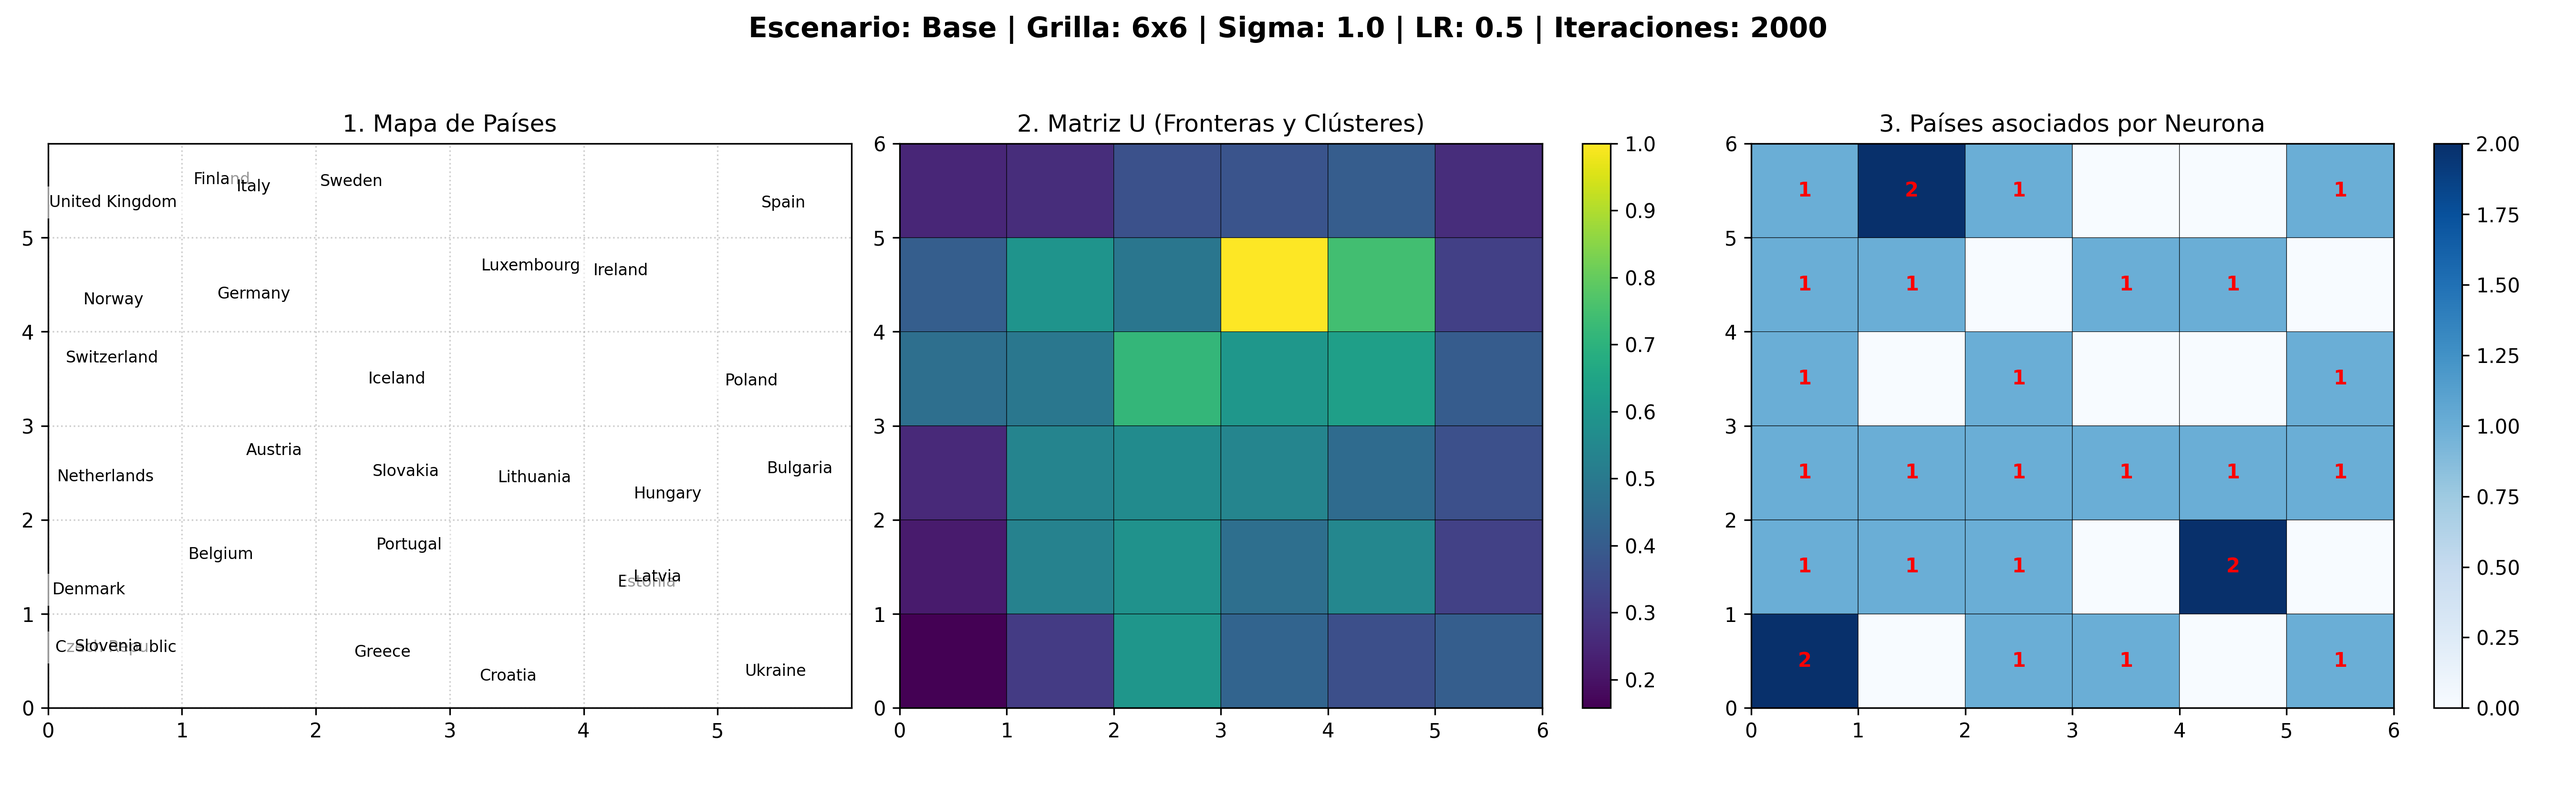
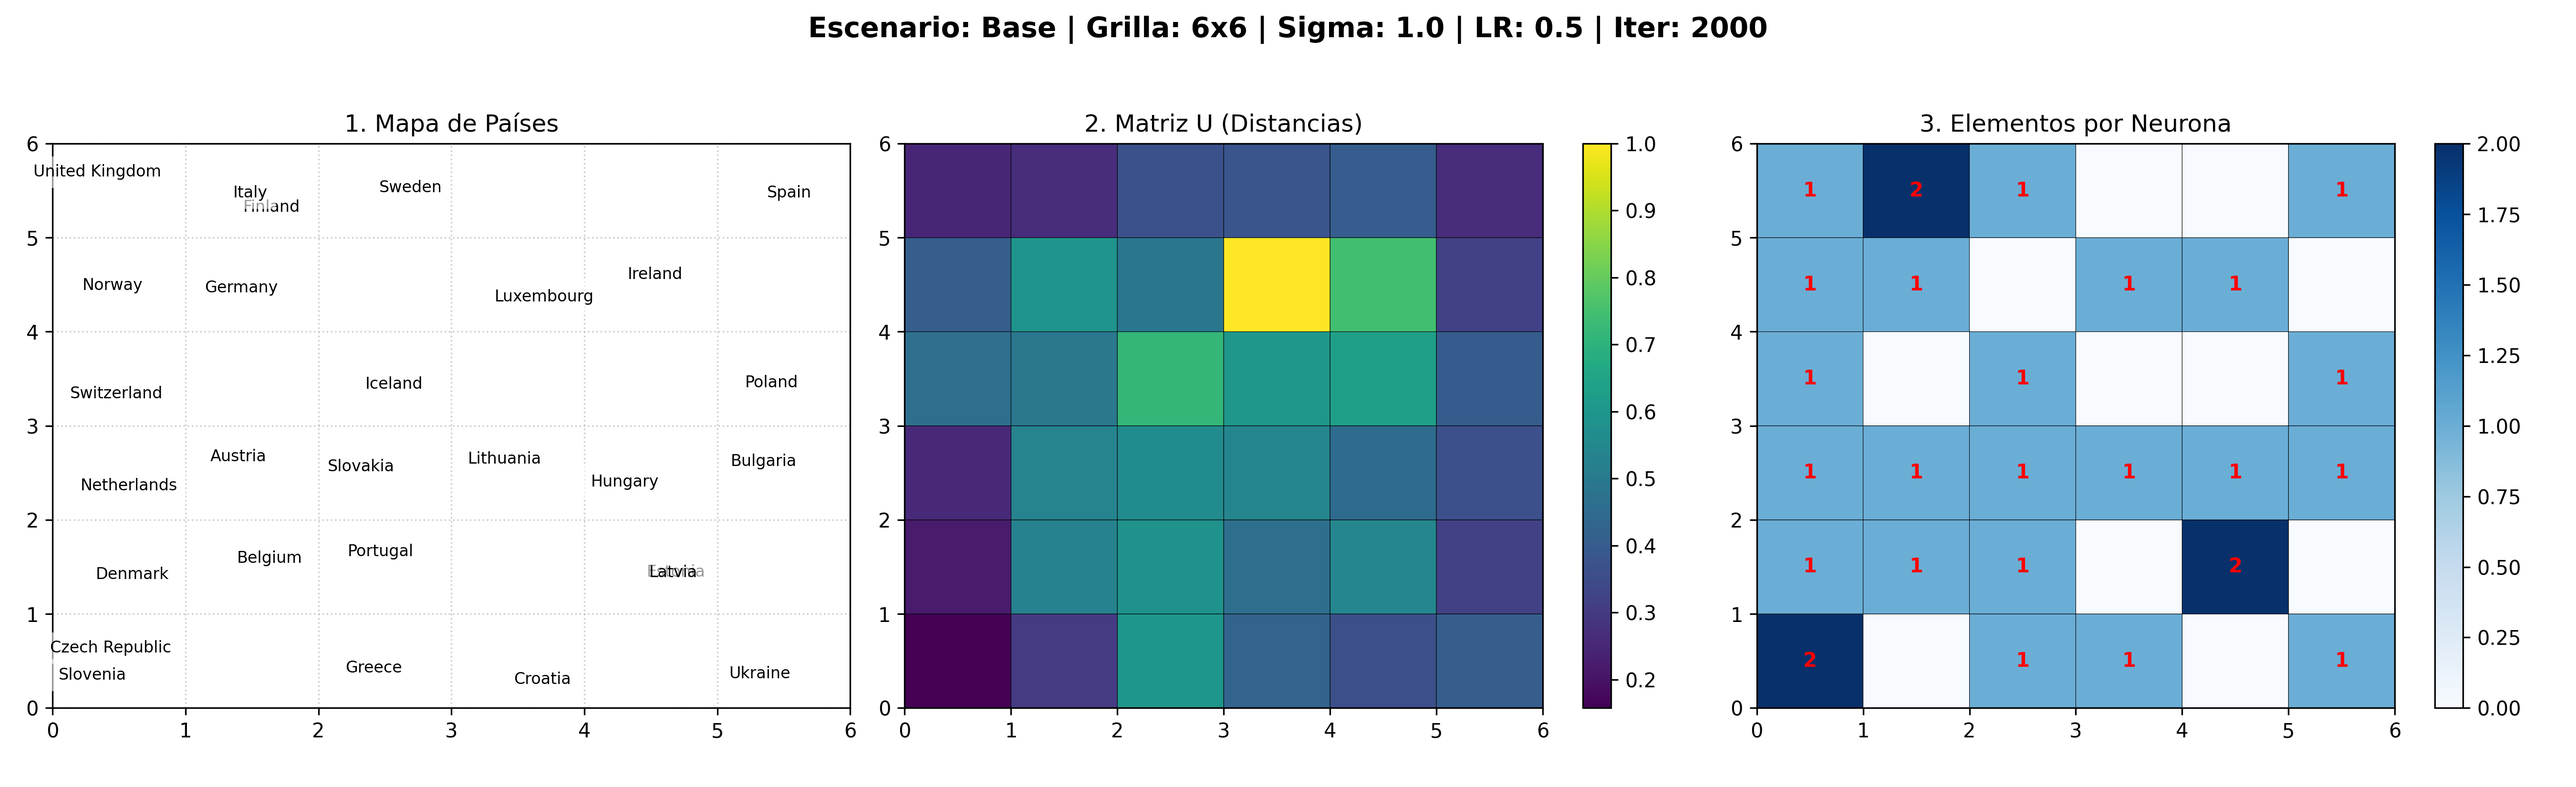
Optimizarion

diff --git a/kohonen/kohonen.py b/kohonen/kohonen.py
@@ -3,13 +3,12 @@ import numpy as np
 import matplotlib.pyplot as plt
 from minisom import MiniSom
 from sklearn.preprocessing import StandardScaler
-import os
 
 # ==========================================
 # 1. Carga y Preparación de Datos
 # ==========================================
 try:
-    df = pd.read_csv('../data/europe.csv')
+    df = pd.read_csv('../data/europe.csv') # Ajusta la ruta si es necesario
 except FileNotFoundError:
     print("Error: Por favor asegura que 'europe.csv' esté en la ruta correcta.")
     exit()
@@ -22,9 +21,8 @@ data_scaled = scaler.fit_transform(data)
 num_paises = len(data_scaled)
 
 # ==========================================
-# 2. Definición de Hiperparámetros (Escenarios)
+# 2. Definición de Escenarios de Hiperparámetros
 # ==========================================
-# Aquí definimos explícitamente los valores para cada corrida comparativa
 escenarios = [
     {"nombre": "Base",            "rows": 6, "cols": 6, "sigma": 1.0, "lr": 0.5, "iter": 2000},
     {"nombre": "Grilla_Chica",    "rows": 4, "cols": 4, "sigma": 1.0, "lr": 0.5, "iter": 2000},
@@ -35,32 +33,28 @@ escenarios = [
 ]
 
 resultados = []
-modelos_entrenados = {} # Para guardar la información y regenerar el óptimo al final
+modelos_entrenados = {}
 
 print("Iniciando entrenamiento y generación de gráficos comparativos...\n")
 
 # ==========================================
-# 3. Entrenamiento y Generación de Gráficos por Escenario
+# 3. Bucle de Entrenamiento y Guardado de Imágenes
 # ==========================================
 for esc in escenarios:
     r, c = esc["rows"], esc["cols"]
     total_neuronas = r * c
-    epocas = round(esc["iter"] / num_paises, 1)
     
-    # Inicializar y entrenar
     som = MiniSom(x=r, y=c, input_len=data_scaled.shape[1], 
                   sigma=esc["sigma"], learning_rate=esc["lr"], random_seed=42)
     som.random_weights_init(data_scaled)
     som.train_random(data_scaled, num_iteration=esc["iter"])
     
-    # Calcular métricas
     hit_map = som.activation_response(data_scaled)
     neuronas_activas = np.count_nonzero(hit_map)
     neuronas_muertas = total_neuronas - neuronas_activas
     qe = som.quantization_error(data_scaled)
     te = som.topographic_error(data_scaled)
     
-    # Guardar métricas en la tabla de resultados
     resultados.append({
         "Escenario": esc["nombre"],
         "Dimensiones": f"{r}x{c}",
@@ -72,34 +66,29 @@ for esc in escenarios:
         "Error Topológico (TE)": round(te, 4)
     })
     
-    # Guardar modelo en memoria
-    modelos_entrenados[esc["nombre"]] = (som, r, c)
+    modelos_entrenados[esc["nombre"]] = (som, r, c, hit_map)
 
-    # --- GRAFICAR Y GUARDAR ESTE ESCENARIO PARA LA PPT ---
+    # Gráfico para la PPT
     fig = plt.figure(figsize=(18, 5.5))
-    fig.suptitle(f"Escenario: {esc['nombre']} | Grilla: {r}x{c} | Sigma: {esc['sigma']} | LR: {esc['lr']} | Iteraciones: {esc['iter']}", fontsize=14, fontweight='bold')
+    fig.suptitle(f"Escenario: {esc['nombre']} | Grilla: {r}x{c} | Sigma: {esc['sigma']} | LR: {esc['lr']} | Iter: {esc['iter']}", fontsize=14, fontweight='bold')
 
-    # 1. Mapa de Países
     ax1 = fig.add_subplot(1, 3, 1)
     ax1.set_title("1. Mapa de Países")
     ax1.pcolor(np.zeros((r, c)), cmap='Greys', edgecolors='k', alpha=0) 
     for i, x in enumerate(data_scaled):
         w = som.winner(x)
-        ax1.text(w[0] + 0.5 + np.random.uniform(-0.25, 0.25), w[1] + 0.5 + np.random.uniform(-0.25, 0.25), 
+        ax1.text(w[0] + 0.5 + np.random.uniform(-0.2, 0.2), w[1] + 0.5 + np.random.uniform(-0.2, 0.2), 
                  countries[i], ha='center', va='center', fontsize=8, bbox=dict(facecolor='white', alpha=0.6, lw=0))
     ax1.set_xlim([0, r]); ax1.set_ylim([0, c])
-    ax1.set_xticks(np.arange(r)); ax1.set_yticks(np.arange(c))
     ax1.grid(True, linestyle=':', alpha=0.6)
 
-    # 2. Matriz U
     ax2 = fig.add_subplot(1, 3, 2)
-    ax2.set_title("2. Matriz U (Fronteras y Clústeres)")
+    ax2.set_title("2. Matriz U (Distancias)")
     cax = ax2.pcolor(som.distance_map().T, cmap='viridis', edgecolors='k') 
     fig.colorbar(cax, ax=ax2)
 
-    # 3. Aciertos por Neurona
     ax3 = fig.add_subplot(1, 3, 3)
-    ax3.set_title("3. Países asociados por Neurona")
+    ax3.set_title("3. Elementos por Neurona")
     cax3 = ax3.pcolor(hit_map.T, cmap='Blues', edgecolors='k')
     fig.colorbar(cax3, ax=ax3)
     for i in range(r):
@@ -107,16 +96,13 @@ for esc in escenarios:
             if hit_map[i, j] > 0:
                 ax3.text(i + 0.5, j + 0.5, str(int(hit_map[i, j])), ha='center', va='center', color='red', fontweight='bold')
 
-    plt.tight_layout(rect=[0, 0.03, 1, 0.95]) # Ajustar layout para el suptitle
-    
-    # Guardar imagen para la comparativa
-    nombre_archivo = f"Comparativa_{esc['nombre']}.png"
-    plt.savefig(nombre_archivo, dpi=300)
-    plt.close(fig) # Cerrar la figura para no saturar la memoria
-    print(f" -> Guardado gráfico comparativo: {nombre_archivo}")
+    plt.tight_layout(rect=[0, 0.03, 1, 0.95])
+    plt.savefig(f"Comparativa_{esc['nombre']}.png", dpi=300)
+    plt.close(fig)
+    print(f" -> Guardado: Comparativa_{esc['nombre']}.png")
 
 # ==========================================
-# 4. Cuadro Comparativo de Resultados
+# 4. Cuadro Comparativo en Consola
 # ==========================================
 df_comparativo = pd.DataFrame(resultados)
 print("\n" + "="*85)
@@ -124,41 +110,42 @@ print("                       CUADRO COMPARATIVO DE HIPERPARÁMETROS")
 print("="*85)
 print(df_comparativo.to_string(index=False))
 print("="*85 + "\n")
-df_comparativo.to_csv("cuadro_comparativo_kohonen.csv", index=False)
 
 # ==========================================
-# 5. Generar el Gráfico Final (El Óptimo)
+# 5. Selección e Impresión del Óptimo Matemático
 # ==========================================
-# Definimos el modelo óptimo como aquel que minimiza el Error de Cuantización (QE)
-# (Puedes cambiar esta métrica si prefieres basarte en el menor Error Topológico)
-mejor_escenario_nombre = df_comparativo.sort_values(by="Error Cuantización (QE)").iloc[0]["Escenario"]
-print(f"*** El modelo óptimo seleccionado automáticamente es: '{mejor_escenario_nombre}' ***")
+ganador_df = df_comparativo.sort_values(by="Neuronas Muertas").iloc[0]
+mejor_escenario_nombre = ganador_df["Escenario"]
 
-# Recuperamos el modelo óptimo y sus dimensiones
-som_opt, r_opt, c_opt = modelos_entrenados[mejor_escenario_nombre]
-hit_map_opt = som_opt.activation_response(data_scaled)
+print("="*50)
+print("         HIPERPARAMETROS OPTIMOS DETECTADOS")
+print("="*50)
+print(f" Escenario Ganador:      {mejor_escenario_nombre}")
+print(f" Tamaño de la Grilla:    {ganador_df['Dimensiones']}")
+print(f" Error de Cuantización:  {ganador_df['Error Cuantización (QE)']}")
+print(f" Error Topológico:       {ganador_df['Error Topológico (TE)']}")
+print(f" Neuronas Muertas:       {ganador_df['Neuronas Muertas']}")
+print("="*50 + "\n")
 
+# Re-generar el gráfico ganador con el nombre final solicitado
+som_opt, r_opt, c_opt, hit_map_opt = modelos_entrenados[mejor_escenario_nombre]
 fig_opt = plt.figure(figsize=(18, 5))
 
-# 1. Mapa de Países Óptimo
 ax1_opt = fig_opt.add_subplot(1, 3, 1)
-ax1_opt.set_title("1. Mapa de Países (Modelo Óptimo)")
+ax1_opt.set_title(f"1. Mapa de Países (Óptimo: {mejor_escenario_nombre})")
 ax1_opt.pcolor(np.zeros((r_opt, c_opt)), cmap='Greys', edgecolors='k', alpha=0) 
 for i, x in enumerate(data_scaled):
     w = som_opt.winner(x)
-    ax1_opt.text(w[0] + 0.5 + np.random.uniform(-0.25, 0.25), w[1] + 0.5 + np.random.uniform(-0.25, 0.25), 
+    ax1_opt.text(w[0] + 0.5 + np.random.uniform(-0.2, 0.2), w[1] + 0.5 + np.random.uniform(-0.2, 0.2), 
              countries[i], ha='center', va='center', fontsize=8, bbox=dict(facecolor='white', alpha=0.6, lw=0))
 ax1_opt.set_xlim([0, r_opt]); ax1_opt.set_ylim([0, c_opt])
-ax1_opt.set_xticks(np.arange(r_opt)); ax1_opt.set_yticks(np.arange(c_opt))
 ax1_opt.grid(True, linestyle=':', alpha=0.6)
 
-# 2. Matriz U Óptima
 ax2_opt = fig_opt.add_subplot(1, 3, 2)
 ax2_opt.set_title("2. Matriz U (Modelo Óptimo)")
 cax_opt = ax2_opt.pcolor(som_opt.distance_map().T, cmap='viridis', edgecolors='k') 
 fig_opt.colorbar(cax_opt, ax=ax2_opt)
 
-# 3. Hits Óptimos
 ax3_opt = fig_opt.add_subplot(1, 3, 3)
 ax3_opt.set_title("3. Elementos por Neurona (Modelo Óptimo)")
 cax3_opt = ax3_opt.pcolor(hit_map_opt.T, cmap='Blues', edgecolors='k')
@@ -169,8 +156,5 @@ for i in range(r_opt):
             ax3_opt.text(i + 0.5, j + 0.5, str(int(hit_map_opt[i, j])), ha='center', va='center', color='red', fontweight='bold')
 
 plt.tight_layout()
-
-# Guardamos específicamente con el nombre que solicitaste
 plt.savefig("Kohonen_Network_Results.png", dpi=300)
-print(" -> Gráfico óptimo guardado como: 'Kohonen_Network_Results.png'")
-# plt.show() # Descomentar si deseas que se abra la ventana del gráfico al terminar
+print(" -> Gráfico final guardado como: 'Kohonen_Network_Results.png'")
